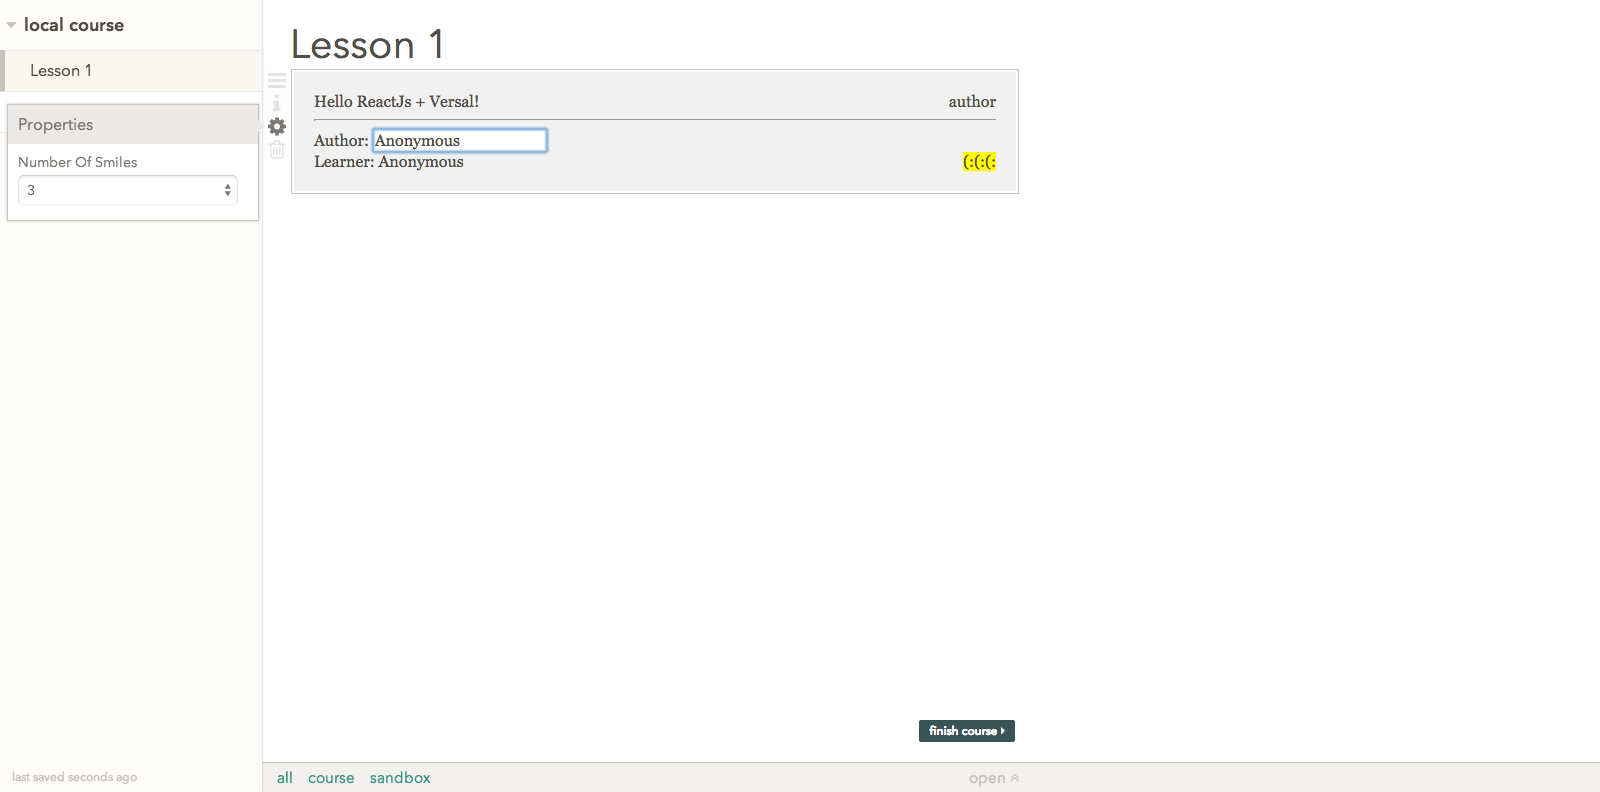
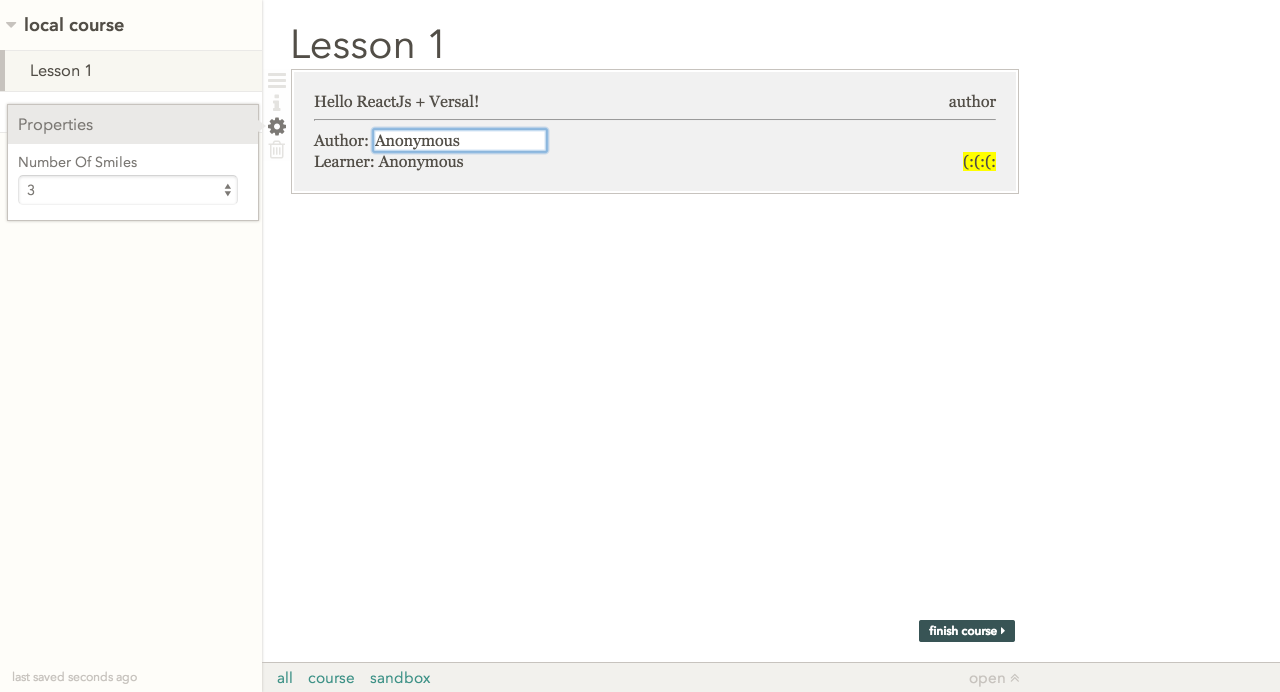
Smaller window for selenium tests

diff --git a/tests/helpers/previewGadget.js b/tests/helpers/previewGadget.js
@@ -3,7 +3,7 @@ exports.command = function () {
 
   browser
     .url('http://127.0.0.1:6952')
-    .resizeWindow(1600, 900)
+    .resizeWindow(1280, 800)
     .frame(0);
 
   return browser;
